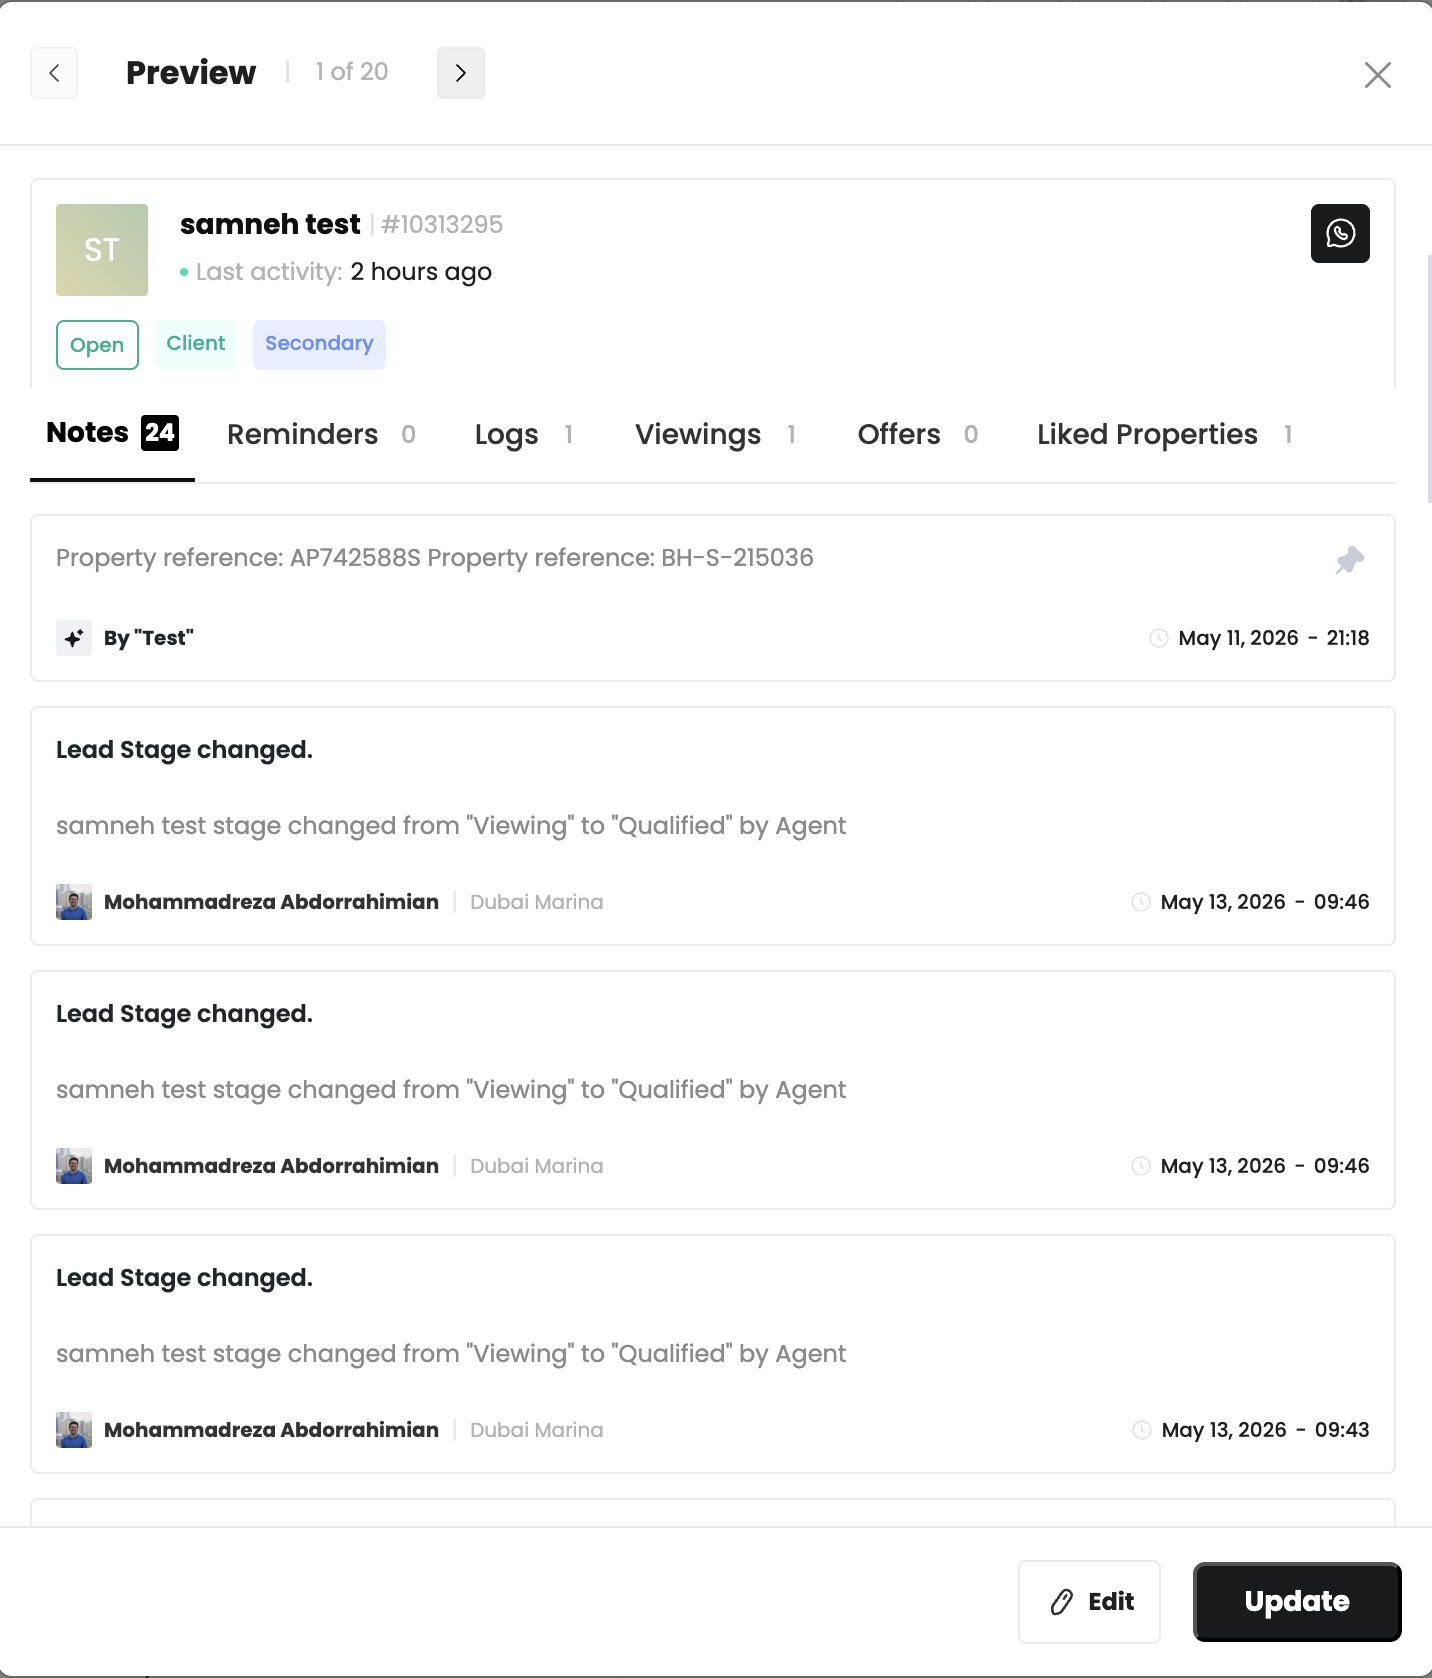
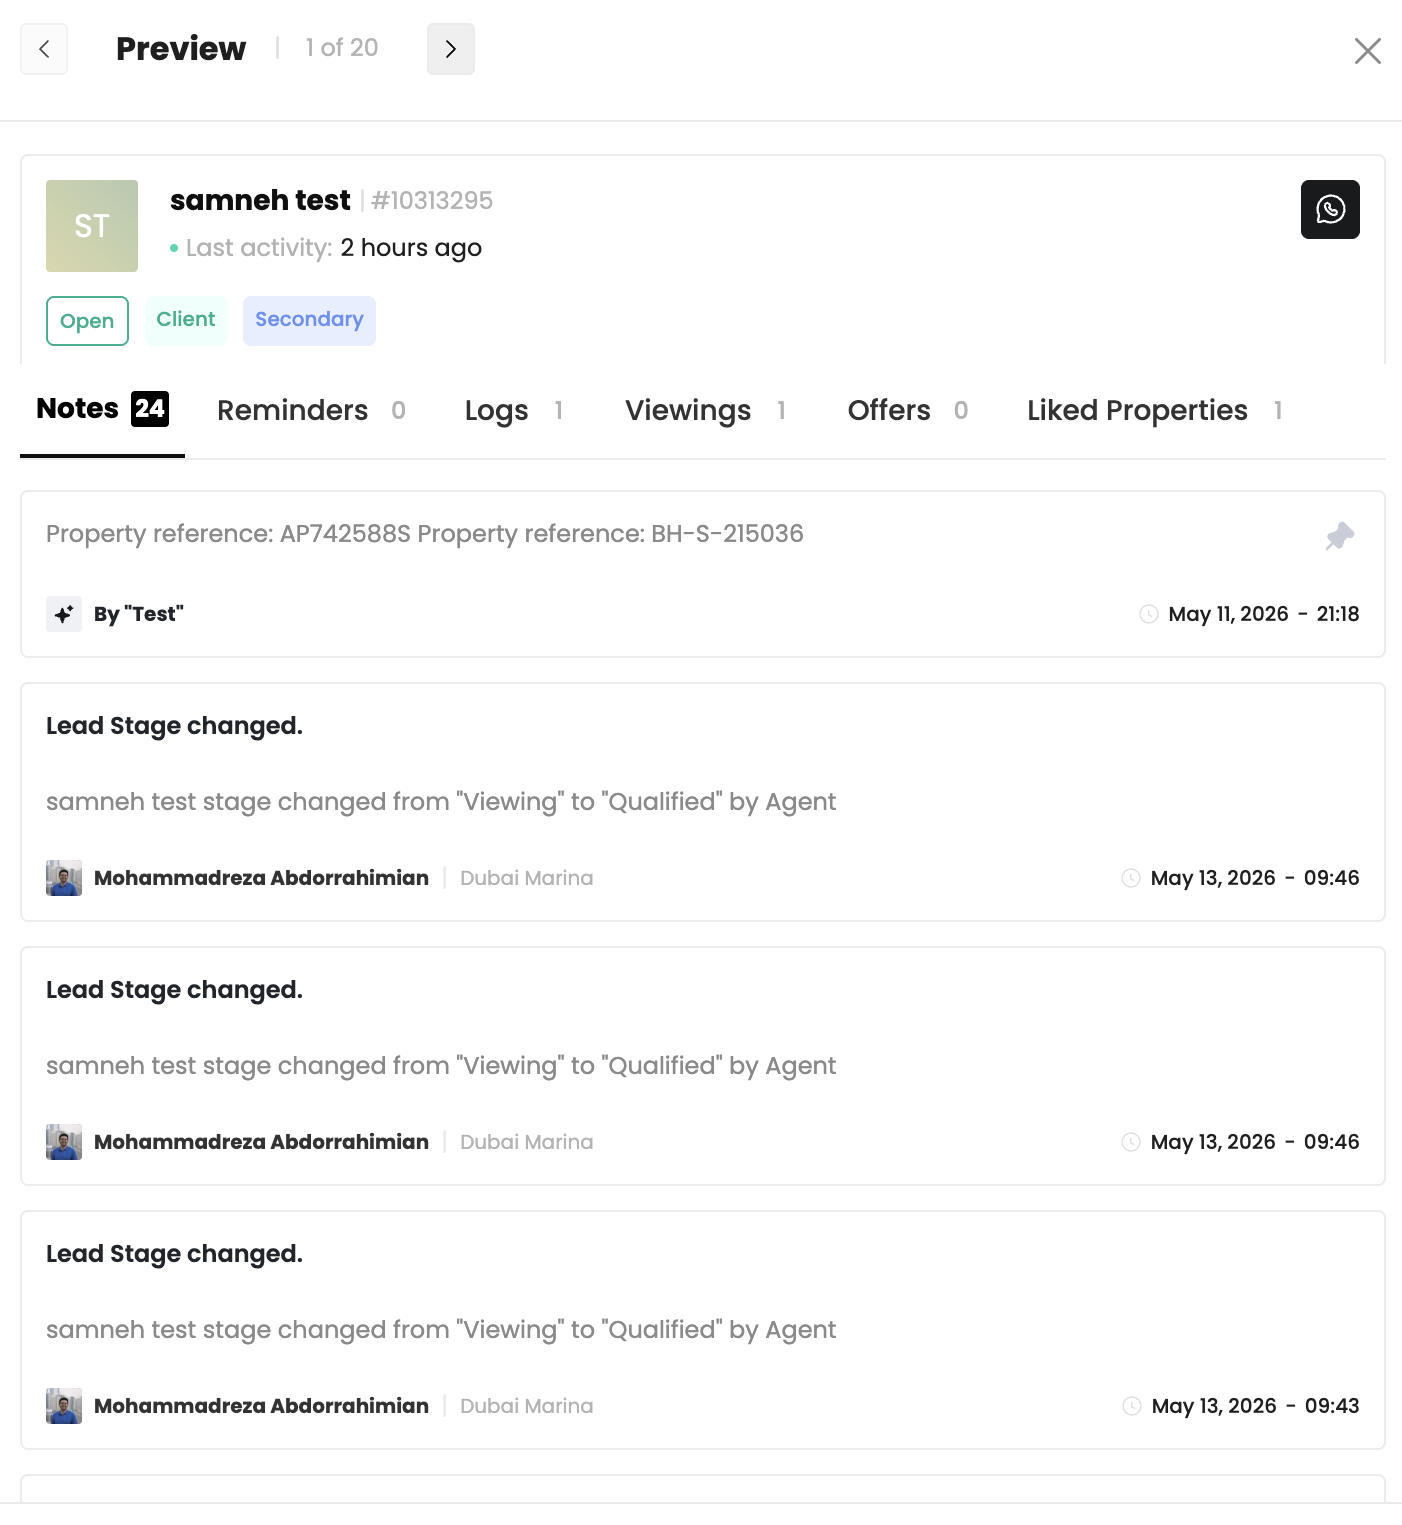
Simplify media embeds and refresh screenshots for publish.
Remove decorative framing from embedded media while preserving sizing/layout, and sync the newly cropped screenshot assets for GitHub Pages.

diff --git a/AI for Brokers.html b/AI for Brokers.html
@@ -242,21 +242,12 @@
     flex-direction: column;
     align-items: center;
     text-align: center;
-    padding: 2.8mm;
-    border: 1px solid #d9dfe8;
-    border-radius: 10px;
-    background: linear-gradient(180deg, #f7f9fc 0%, #eef2f8 100%);
-    box-shadow: 0 3px 14px rgba(15, 23, 42, 0.10);
   }
   .media > img,
   .media > video {
     display: block;
     max-width: 100%;
     height: auto;
-    border-radius: 8px;
-    border: 1px solid #e4e8ef;
-    background: #fff;
-    box-shadow: 0 1px 5px rgba(15, 23, 42, 0.08);
   }
   .media.phone > img,
   .media.phone > video {
@@ -294,11 +285,6 @@
     flex-direction: column;
     align-items: center;
     text-align: center;
-    padding: 2.4mm;
-    border: 1px solid #d9dfe8;
-    border-radius: 10px;
-    background: linear-gradient(180deg, #f7f9fc 0%, #eef2f8 100%);
-    box-shadow: 0 3px 12px rgba(15, 23, 42, 0.09);
   }
   .media-pair > figure > img,
   .media-pair > figure > video {
@@ -308,10 +294,6 @@
     max-height: 110mm;
     height: auto;
     object-fit: contain;
-    border-radius: 8px;
-    border: 1px solid #e4e8ef;
-    background: #fff;
-    box-shadow: 0 1px 5px rgba(15, 23, 42, 0.08);
   }
   .media-pair > figure > figcaption {
     margin-top: 2mm;

diff --git a/index.html b/index.html
@@ -242,21 +242,12 @@
     flex-direction: column;
     align-items: center;
     text-align: center;
-    padding: 2.8mm;
-    border: 1px solid #d9dfe8;
-    border-radius: 10px;
-    background: linear-gradient(180deg, #f7f9fc 0%, #eef2f8 100%);
-    box-shadow: 0 3px 14px rgba(15, 23, 42, 0.10);
   }
   .media > img,
   .media > video {
     display: block;
     max-width: 100%;
     height: auto;
-    border-radius: 8px;
-    border: 1px solid #e4e8ef;
-    background: #fff;
-    box-shadow: 0 1px 5px rgba(15, 23, 42, 0.08);
   }
   .media.phone > img,
   .media.phone > video {
@@ -294,11 +285,6 @@
     flex-direction: column;
     align-items: center;
     text-align: center;
-    padding: 2.4mm;
-    border: 1px solid #d9dfe8;
-    border-radius: 10px;
-    background: linear-gradient(180deg, #f7f9fc 0%, #eef2f8 100%);
-    box-shadow: 0 3px 12px rgba(15, 23, 42, 0.09);
   }
   .media-pair > figure > img,
   .media-pair > figure > video {
@@ -308,10 +294,6 @@
     max-height: 110mm;
     height: auto;
     object-fit: contain;
-    border-radius: 8px;
-    border: 1px solid #e4e8ef;
-    background: #fff;
-    box-shadow: 0 1px 5px rgba(15, 23, 42, 0.08);
   }
   .media-pair > figure > figcaption {
     margin-top: 2mm;
